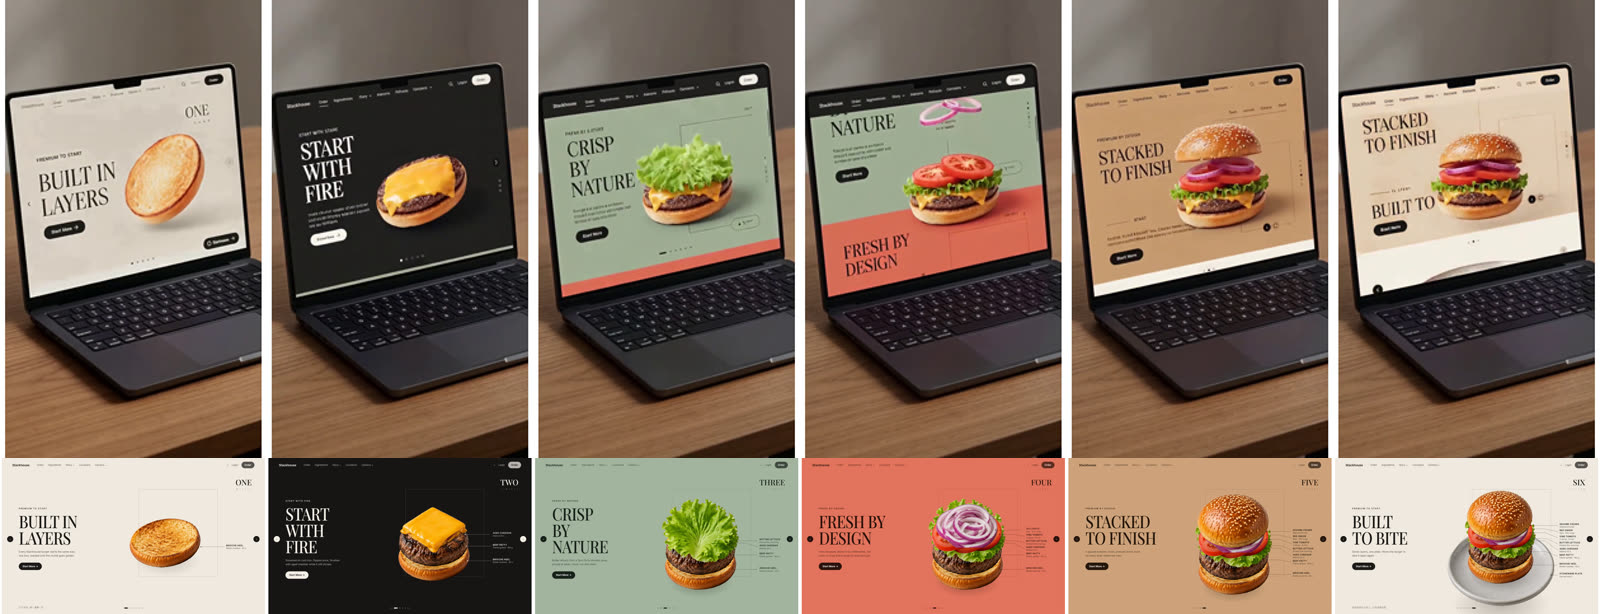
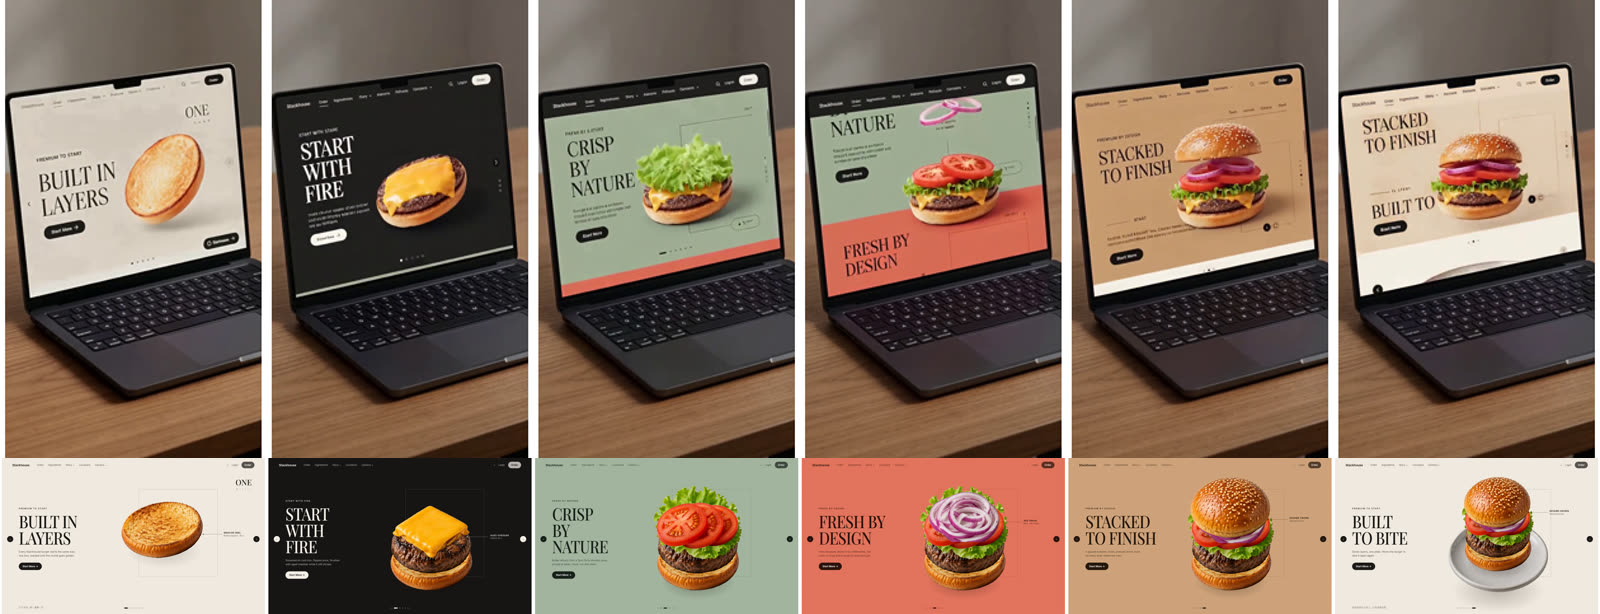
第 2 轮（按独立复查改）：猫——爪子伸到被按的键上并停 0.3 秒、手臂加粗渐细、脚的浅色轮廓、侧身剪影放宽、弹簧子步长；汉堡——按可用高度缩放构图、一次只标注最新一层、番茄改到灰绿屏、序号只在第一屏、生菜空中飘
Claude-Session: https://claude.ai/code/session_01W4x6f4rXQdZAskaY1FUgRj

diff --git a/demos/burger-layers.html b/demos/burger-layers.html
@@ -42,7 +42,7 @@ h1{margin:0;font:500 clamp(44px,6.6vw,96px)/.9 "Playfair Display",Georgia,serif;
 .dots button.on{opacity:.9;width:18px}
 .arrow{position:absolute;top:50%;z-index:4;width:30px;height:30px;border-radius:50%;border:0;background:var(--btnBg,#1B1A17);color:var(--btnText,#fff);cursor:pointer;font-size:13px;display:grid;place-items:center;transition:background .5s,color .5s,opacity .3s}
 .arrow.l{left:2vw}.arrow.r{right:2vw}
-.num{position:absolute;right:5vw;top:13vh;font:500 38px/1 "Playfair Display",serif;text-transform:uppercase;z-index:3;text-align:right}
+.num{position:absolute;right:5vw;top:13vh;transition:opacity .5s;font:500 38px/1 "Playfair Display",serif;text-transform:uppercase;z-index:3;text-align:right}
 .num small{display:block;font:500 9px/1 Inter;letter-spacing:.3em;margin-top:8px;opacity:.7}
 /* 汉堡舞台 */
 #burger{position:absolute;left:62%;top:50%;width:min(31vw,440px);aspect-ratio:1;transform:translate(-50%,-50%);z-index:2}
@@ -94,8 +94,8 @@ const ING=[
  {id:'patty',  w:.98,ry:.41,thick:.24,screen:1,name:'Beef patty',spec:'Flame-grilled · 180 g'},
  {id:'cheese', w:.94,ry:.40,thick:.05,screen:1,name:'Aged cheddar',spec:'Melted 30 s',delay:.45},
  {id:'lettuce',w:1.08,ry:.34,thick:.10,screen:2,name:'Butter lettuce',spec:'Picked this morning'},
- {id:'tomato', w:.98,ry:.46,thick:.10,screen:3,name:'Vine tomato',spec:'3 slices · 6 mm'},
- {id:'onion',  w:.86,ry:.40,thick:.08,screen:3,name:'Red onion',spec:'Raw · thin rings',delay:.5},
+ {id:'tomato', w:.98,ry:.46,thick:.10,screen:2,delay:.75,name:'Vine tomato',spec:'3 slices · 6 mm'},
+ {id:'onion',  w:.86,ry:.40,thick:.08,screen:3,name:'Red onion',spec:'Raw · thin rings',delay:.25},
  {id:'bun-top',w:1.0,ry:.30,thick:0,screen:4,name:'Sesame crown',spec:'Glazed brioche'},
 ];
 const NAT={plate:[472,343],'bun-bottom':[462,314],patty:[447,312],cheese:[488,331],lettuce:[457,379],tomato:[487,289],onion:[417,298],'bun-top':[463,353]};
@@ -128,7 +128,7 @@ function layout(){const out={};let face=null;
   return out}
 const POS=layout();
 
-let lock=0,baseYs=null,cur=0,shown=-1,hover=0,hoverT=0,mx=0,my=0;
+let lock=0,gs=null,baseYs=null,cur=0,shown=-1,hover=0,hoverT=0,mx=0,my=0;
 function setScreen(i,instant){i=Math.max(0,Math.min(N-1,i));if(i===shown)return;const prev=shown;shown=i;const S=SCREENS[i];
   // 背景：下一屏颜色从底部升起
   const fromBg=prev<0?S.bg:SCREENS[prev].bg;
@@ -151,6 +151,7 @@ function swapText(S,instant){
   if(instant||!old.length)put();else setTimeout(put,330);
   for(const [id,txt] of [['#eb',S.eb],['#p',S.p],['#num .line',S.num]]){const el=$(id);el.classList.add('out');
     setTimeout(()=>{el.firstElementChild.textContent=txt;el.classList.remove('out');el.classList.add('pre');requestAnimationFrame(()=>requestAnimationFrame(()=>el.classList.remove('pre')))},instant?0:300)}
+  $('#num').style.opacity=shown===0?1:0;  // 原作的大号序号只在第一屏
   $('#num small').textContent=['●','○','○','○','○','○'].map((_,k)=>k===shown?'●':'○').join(' ');
   $('#hint').style.opacity=shown===N-1?'.55':shown===0?'.55':'0';$('#hint').textContent=shown===N-1?(matchMedia('(hover:hover)').matches?'把鼠标放在汉堡上：拉开成爆炸图':'点一下汉堡：拉开成爆炸图'):'往下滚动 · 每一屏叠一层';
 }
@@ -169,34 +170,43 @@ addEventListener('pointermove',e=>{if(e.pointerType!=='mouse')return;mx=e.client
 const ease=t=>1-Math.pow(1-t,3);
 // 落地：带一点压缩回弹
 function landCurve(t){if(t<.62){const u=t/.62;return {y:1-u*u,sq:0}}const u=(t-.62)/.38;return {y:0,sq:Math.sin(u*Math.PI)*(1-u)*.9}}
-function frame(now){const W=burger.clientWidth;const ht=shown===N-1?Math.max(hoverT,lock):0;hover+=(ht-hover)*.08;
-  const stackShift=shown>=5?ease(Math.min(1,(now-(els.plate.land??now))/900)):0;
-  // 整个汉堡的中心：叠得越高越往下沉，保持在画面中间
-  const topMost=Math.min(...ING.filter(g=>g.id!=='plate'&&els[g.id].land!=null&&now>=els[g.id].land).map(g=>POS[g.id].top),POS['bun-bottom'].top);
-  // 叠得越高，整体越往下移，让汉堡中段保持在画面中间
-  const bot=shown>=5?POS.plate.bottom:0;const want=W*(.62-(topMost+bot)*.5);baseYs=baseYs==null?want:baseYs+(want-baseYs)*.06;const baseY=baseYs;
+function frame(now){const W0=burger.clientWidth;const ht=shown===N-1?Math.max(hoverT,lock):0;hover+=(ht-hover)*.08;
+  const landed=ING.filter(g=>g.id!=='plate'&&els[g.id].land!=null&&now>=els[g.id].land);
+  const topMost=Math.min(...landed.map(g=>POS[g.id].top),POS['bun-bottom'].top);
+  const botMost=shown>=5?POS.plate.bottom:.02;
+  // 构图（原作：越往后汉堡越靠下、相对越小）：底部压在画面 84% 处，顶部不超过导航下方；放不下就整体缩小
+  const boxTop=burger.getBoundingClientRect().top;const anchor=innerHeight*(shown===0?.66:.86);
+  const avail=anchor-96-(hover*W0*.5);const need=(botMost-topMost)*W0;const gsW=Math.min(1,avail/need);
+  gs=gs==null?gsW:gs+(gsW-gs)*.07;const W=W0*gs;
+  const want=anchor-boxTop-botMost*W;baseYs=baseYs==null?want:baseYs+(want-baseYs)*.07;const baseY=baseYs;
   const order=['plate','bun-bottom','patty','cheese','lettuce','tomato','onion','bun-top'];
-  lines.innerHTML='';const NOTES=[];
-  order.forEach((id,z)=>{const e=els[id],g=e.g,P=POS[id];const w=g.w*W*(id==='plate'?1:1-stackShift*.08),h=P.h*W*(id==='plate'?1:1-stackShift*.08);
-    let ty,rot=0,sx=1,sy=1,op=1,shOp=1;
-    // 爆炸图：最后一屏悬停时各层按顺序拉开
+  const NOTES=[];
+  // 平时只标注最新落下的那一层（原作的标注很克制）；爆炸图时全部标出
+  const newest=[...landed].sort((a,b)=>els[b.id].land-els[a.id].land)[0];
+  order.forEach((id,z)=>{const e=els[id],g=e.g,P=POS[id];const w=g.w*W,h=P.h*W;
+    let ty,rot=0,sx=1,sy=1,op=1,shOp=1,tx=0;
+    // 爆炸图：最后一屏悬停时，以中间层为中心上下拉开
     const ex=(z-4)*hover*W*.075;
-    const restTop=baseY+P.top*W*(id==='plate'?1:1-stackShift*.08)-ex;
+    const restTop=baseY+P.top*W-ex;
     if(e.land==null){ // 不在场：飞回上方
       const t=e.leave?Math.min(1,(now-e.leave)/500):1;ty=lerp(restTop,-W*1.6,ease(t));op=1-t;shOp=0}
-    else{const t=Math.max(0,Math.min(1,(now-e.land)/950));
+    else{const t=Math.max(0,Math.min(1,(now-e.land)/1000));
       if(id==='bun-bottom'&&shown===0){ // 第一屏：底面包悬浮，轻轻上下
         const lt=Math.min(1,(now-e.land)/900);ty=restTop-W*.14*(1-ease(lt))+Math.sin(now/700)*W*.008-W*.02;rot=-6+Math.sin(now/900)*1.5;shOp=.55}
-      else{const c=landCurve(t);ty=restTop-c.y*(innerHeight*1.1);rot=e.spin*c.y*(id==='lettuce'?Math.cos(now/140):1);sy=1-c.sq*.07;sx=1+c.sq*.04;shOp=Math.min(1,t*1.4)}
+      else{const c=landCurve(t);ty=restTop-c.y*(innerHeight*1.1);
+        if(id==='lettuce'){rot=e.spin*c.y*Math.cos(now/170);tx=Math.sin(now/260)*W*.06*c.y;sy=1-c.sq*.12+Math.sin(now/120)*.05*c.y}  // 生菜在空中翻、飘
+        else{rot=e.spin*c.y;sy=1-c.sq*.11;sx=1+c.sq*.06}
+        shOp=Math.min(1,t*1.4)}
       if(t<=0&&id!=='bun-bottom'){op=0}}
-    const px=(mx*W*.03)*(z/7),py=(my*W*.02)*(z/7);
+    const px=(mx*W*.03)*(z/7)+tx,py=(my*W*.02)*(z/7);
     e.im.style.width=w+'px';e.im.style.opacity=op;e.im.style.zIndex=z*2+1;
     e.im.style.transform=`translate(calc(-50% + ${px}px),${ty+py}px) rotate(${rot}deg) scale(${sx},${sy})`;e.im.style.transformOrigin='50% 100%';
     // 阴影：投在下一层上，落下时由淡变实
     const shY=restTop+h-(g.ry*h)*1.1;e.sh.style.cssText=`width:${w*.92}px;height:${g.ry*h*1.5}px;transform:translate(calc(-50% + ${px}px),${shY+py+(id==='plate'?h*.12:0)}px);opacity:${shOp*(id==='plate'?.55:.75)};z-index:${z*2}`;
     // 标注线
-    const showNote=e.land!=null&&now-e.land>(id==='bun-bottom'?0:700)&&(id!=='plate'||shown===N-1);const n=e.n;n.classList.toggle('on',showNote);
-    if(showNote){const br=burger.getBoundingClientRect();const cx=br.left+W/2+px,cy=br.top+ty+py+h*(1-g.ry);const ax=cx+w*.47,lx=br.left+W*1.22;
+    const isNew=newest&&newest.id===id;const showNote=e.land!=null&&now-e.land>(id==='bun-bottom'?0:700)&&(hover>.5?true:isNew||(id==='bun-bottom'&&shown===0))&&(id!=='plate'||shown===N-1);
+    const n=e.n;n.classList.toggle('on',showNote);
+    if(showNote){const br=burger.getBoundingClientRect();const cx=br.left+W0/2+px,cy=br.top+ty+py+h*(1-g.ry);const ax=cx+w*.47,lx=br.left+W0/2+W*.5+W0*.2;
       const k=Math.min(1,(now-e.land-(id==='bun-bottom'?0:700))/450);NOTES.push({n,ax,ay:cy,lx,k})}
   });
   // 标注：按高度排开，间距至少 30px，折线连过去

diff --git a/demos/typing-cat.html b/demos/typing-cat.html
@@ -38,7 +38,8 @@ const mixP=(A,B,t)=>A.map((p,i)=>[lerp(p[0],B[i][0],t),lerp(p[1],B[i][1],t)]);
 const P=(x,y)=>({x,y}), dist=(a,b)=>Math.hypot(a.x-b.x,a.y-b.y);
 // 弹簧：k 刚度，z 阻尼比（<1 会有一点回弹）
 class Spring{constructor(v,k=120,z=.75){this.x=v;this.v=0;this.t=v;this.k=k;this.z=z}
-  step(dt){const c=2*Math.sqrt(this.k)*this.z;const a=this.k*(this.t-this.x)-c*this.v;this.v+=a*dt;this.x+=this.v*dt;return this.x}}
+  step(dt){const c=2*Math.sqrt(this.k)*this.z;const n=Math.max(1,Math.ceil(dt*240)),h=dt/n;  // 子步长，刚度高时也不发散
+    for(let i=0;i<n;i++){const a=this.k*(this.t-this.x)-c*this.v;this.v+=a*h;this.x+=this.v*h}return this.x}}
 class Spring2{constructor(x,y,k,z){this.a=new Spring(x,k,z);this.b=new Spring(y,k,z)}
   set(x,y){this.a.t=x;this.b.t=y} step(dt){this.a.step(dt);this.b.step(dt)} get x(){return this.a.x} get y(){return this.b.x}
   get speed(){return Math.hypot(this.a.v,this.b.v)}}
@@ -47,10 +48,10 @@ class Spring2{constructor(x,y,k,z){this.a=new Spring(x,k,z);this.b=new Spring(y,
 // 身体轮廓关键形（12 个控制点，顺时针，从脖子左侧开始）
 const BODY={
   front:[[-96,-292],[-130,-215],[-144,-132],[-152,-58],[-140,-12],[-100,0],[18,0],[54,-12],[64,-60],[54,-136],[32,-215],[6,-292]],
-  lean: [[-205,-292],[-230,-226],[-206,-150],[-162,-80],[-120,-16],[-76,0],[24,0],[58,-16],[66,-70],[48,-136],[-12,-216],[-82,-296]],
+  lean: [[-214,-282],[-236,-214],[-218,-140],[-190,-72],[-166,-16],[-124,0],[30,0],[66,-18],[80,-84],[66,-164],[4,-246],[-78,-302]],
   type: [[-102,-238],[-142,-190],[-156,-124],[-160,-58],[-146,-12],[-100,0],[22,0],[60,-12],[70,-58],[62,-124],[40,-190],[0,-238]]};
-const HEAD={front:{x:-44,y:-322,r:0},lean:{x:-152,y:-324,r:-.16},type:{x:-48,y:-268,r:0}};
-const SHOULDER={front:[[-98,-178],[-14,-178]],lean:[[-196,-212],[-92,-142]],type:[[-108,-140],[22,-140]]};
+const HEAD={front:{x:-44,y:-322,r:0},lean:{x:-150,y:-332,r:-.1},type:{x:-48,y:-268,r:0}};
+const SHOULDER={front:[[-98,-178],[-14,-178]],lean:[[-196,-176],[-96,-150]],type:[[-108,-140],[22,-140]]};
 const TAILBASE={front:[52,-66],lean:[44,-104],type:[58,-56]};
 const TAILREST=[-.15,-.42,-.75,-1.0,-1.08,-.9,-.5,-.08,.28,.5];
 
@@ -121,6 +122,8 @@ function hit(id){const k=KEYS[id];S.lastType=S.t;k.glow=1;
   if(S.wMouseArm.t>.5)arm=1;  // 左爪按着鼠标时，全部由右爪来敲
   S.big.v-=9;
   S.press[arm]={k,t:S.t};S.lastArm=arm;
+  // 先把爪子往目标猛拉一段，再交给弹簧（敲得快、拖影长）
+  const sp=S.paw[arm];sp.a.x+=(k.cx-sp.a.x)*.55;sp.b.x+=(k.cy-sp.b.x)*.55;
   const ch=LABEL[id]||(id.length===1?id:null);if(ch)addCap(ch,k)}
 
 // 键帽：胸前有一颗大的空白键帽；新字母从它旁边冒出来，把旧的往右推（原作 25–28 秒逐帧）
@@ -154,9 +157,9 @@ function update(dt){const t=S.t;
   for(let i=0;i<2;i++){let x=lerp(rest[i][0],lean[i][0],L),y=lerp(rest[i][1],lean[i][1],L);x=lerp(x,hover[i][0],T);y=lerp(y,hover[i][1],T);
     const pr=S.press[i],po=S.press[1-i];if(T>.5&&po&&t-po.t<.32&&(!pr||pr.t<po.t)){x=lerp(x,i?40:-110,.5);y=-52}
     if(i===0){const M=S.wMouseArm.x;const ck=t-S.click<.12?5:0;x=lerp(x,S.mouseDev.x+4,M);y=lerp(y,S.mouseDev.y-10+ck,M)}
-    if(pr&&t-pr.t<.14){x=pr.k.cx;y=pr.k.cy-2}
-    const sp=S.paw[i];sp.set(x,y);sp.a.k=sp.b.k=pr&&t-pr.t<.3?900:260;sp.step(dt);
-    const g=S.ghosts[i];g.unshift([sp.x,sp.y,sp.speed]);if(g.length>4)g.pop()}
+    if(pr&&t-pr.t<.3){x=pr.k.cx;y=pr.k.cy-2}
+    const sp=S.paw[i];sp.set(x,y);sp.a.k=sp.b.k=pr&&t-pr.t<.45?2200:260;sp.step(dt);
+    const g=S.ghosts[i];g.unshift([sp.x,sp.y,sp.speed]);if(g.length>6)g.pop()}
   // 键盘高亮衰减
   for(const k of keyList)k.glow=Math.max(0,k.glow-dt*1.6);
   // 键帽
@@ -230,13 +233,13 @@ function draw(){const g=ctx;g.setTransform(1,0,0,1,0,0);g.drawImage(bg,0,0);
   {const g=F;
   for(let i=0;i<2;i++){const s=[sh[i][0],sh[i][1]*(1+.012*breathe)];const ch=ik(s,pawPts[i],88,84,i?-1:1);
     // 运动拖影
-    const gh=S.ghosts[i];if(!reduce&&gh[0]&&gh[0][2]>380){for(let j=1;j<gh.length;j++){g.globalAlpha=.16/j;g.strokeStyle=INK;strokeLimb(g,ik(s,gh[j],88,84,i?-1:1),25)}g.globalAlpha=1}
-    g.strokeStyle=INK;strokeLimb(g,ch,26);g.fillStyle=INK;g.beginPath();g.ellipse(ch[2][0],ch[2][1]+1,15,12,0,0,7);g.fill();
+    const gh=S.ghosts[i];if(!reduce&&gh[0]&&gh[0][2]>160){for(let j=1;j<gh.length;j++){g.globalAlpha=.24/j;g.strokeStyle=INK;strokeLimb(g,ik(s,gh[j],88,84,i?-1:1),25)}g.globalAlpha=1}
+    g.strokeStyle=INK;strokeLimb(g,ch,24);g.lineWidth=31;g.beginPath();g.moveTo(...ch[0]);for(let q=1;q<=8;q++)g.lineTo(...qpt(ch,q/8*.5));g.stroke();g.fillStyle=INK;g.beginPath();g.ellipse(ch[2][0],ch[2][1]+1,16.5,13,0,0,7);g.fill();
     S.ghosts[i].ch=ch}}
   g.save();g.setTransform(1,0,0,1,0,0);g.filter=`drop-shadow(0 ${2.5*DPR}px ${2.5*DPR}px rgba(0,0,0,.3))`;g.drawImage(front,0,0);g.restore();
   // 腿的浅色分界线（原作里腿和身体之间的细浅线）
   g.strokeStyle=EDGE;g.lineWidth=1.5;g.lineCap='round';
-  for(let i=0;i<2;i++){const ch=S.ghosts[i].ch;limbEdges(g,ch,26,lerp(.42,.6,Tc))}
+  for(let i=0;i<2;i++){const ch=S.ghosts[i].ch;limbEdges(g,ch,24,lerp(.42,.6,Tc));g.beginPath();g.ellipse(ch[2][0],ch[2][1]+1,16.5,13,0,.15,Math.PI-.15);g.stroke()}
   // 后腿的分界线
   g.beginPath();g.moveTo(lerp(-118,-120,Lc),-12);g.quadraticCurveTo(lerp(-124,-96,Lc),-70,lerp(-112,-60,Lc),-112);g.moveTo(lerp(34,30,Lc),-10);g.quadraticCurveTo(lerp(44,44,Lc),-60,lerp(30,10,Lc),-104);
   g.globalAlpha=.55*(1-Tc*.6);g.stroke();g.globalAlpha=1;
